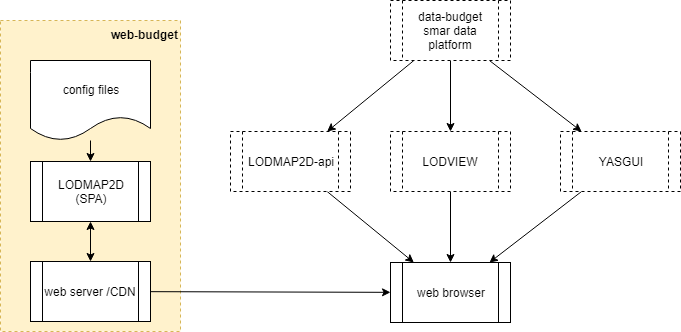
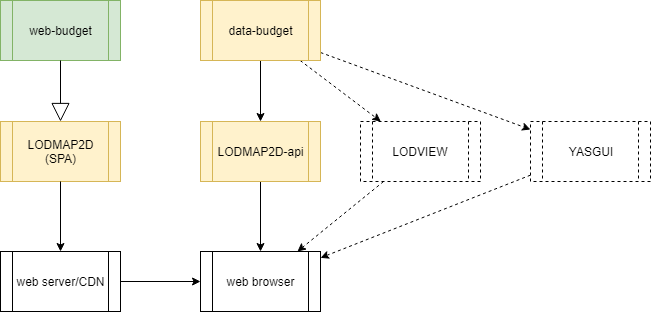
refined

diff --git a/README.md b/README.md
@@ -15,14 +15,16 @@ for citizens to participate in public affairs from the bottom up. The g0v commun
 Have a look to the reference implementation  https://budget.g0v.it/
 
 
+web-budget is an integration of three open source projects:
+
+- the [LODMAP2D](https://github.com/linkeddatacenter/LODMAP2D) project that realize a single web page application that manages the presentation layer (ie the bubbles) ;
+- the [LODMAP2D-api](https://github.com/linkeddatacenter/LODMAP2D-api) that provides a CORS enabled microservice to optimize and cache the data required by web-budget ;
+- the [data-budget](https://github.com/g0v-it/data-budget) project that provides a knowledge graph about Italian budge t data with a SPARQL service 
+
+![architecture](doc/architecture.png)
+
+
 ## Try with docker
-
-web-budget requires a stack of three components:
-
-- data are extracted and processed by the [data-budget](https://github.com/g0v-it/data-budget) platform according with the Semantic Web Standards
-- the presentation layer is realized by the [LODMAP2D](https://github.com/linkeddatacenter/LODMAP2D) single page web app according with SOLID specification;
-- the [LODMAP2D api](https://github.com/linkeddatacenter/LODMAP2D) micro service access the SPARQL service exposed by the data-budget platform
-providing a CORS compliant linked data interface to LODMAP2D. 
 
 The project is shipped with a [Docker](https://docker.com) setup that makes it easy 
 to get a containerized development environment up and running. 
@@ -41,9 +43,10 @@ This will start locally all needed services:
 
 | Name        | Description                                                   | Port 
 | ----------- | ------------------------------------------------------------- | ------- 
-| sdaas       | the data-budget management platform                           | (29321) optional    
+| sdaas       | the **data-budget** management platform                       | 29321 
 | api         | a microservice providing LODMAP2-api                          | 29322 
-| webapp      | the web server using LODMAP2D application                     | 20323
+| webapp      | the customized LODMAP2D application                           | 20323
+
 
 - try http://localhost:29323/
 
@@ -51,7 +54,7 @@ The first time you start the containers, Docker downloads and builds images for 
 this is done only once. Starting servers will then be lightning fast.
 
 *WARNING: some external links require to access to a public SPARQL interface. Such links are not working in a 
-local deploy*
+local deploy, if you need it, you have tho expose sdaas port in internet.*
 
 To shudown the platform type: 
 

diff --git a/CONTRIBUTING.md b/CONTRIBUTING.md
@@ -30,20 +30,19 @@ We kindly ask you to add following sentence to your pull request:
 
 
 Before submitting a pull request clean your code and test it
-
-```
-HERE INSTRUCTION TO EXECUTE TESTS
 ```
 
-## Architecture overview
+## LODMAP2D customization
 
-This application is a customization of the [LODMAP2D](https://github.com/linkeddatacenter/LODMAP2D) 
 
-![architecture](doc/architecture.png)
+Customized files are in the public directory:
 
-All customized files are in the public directory.
+- index.html is customized adding Copernicani.it SEO related parameters.
+- the Copernicani.it favicon and logos files can be customized as needed. 
+- The preview.png file is used as preview image in social network posts
+- IE_alert manages incompatible old browsers.
 
-Please consider to contribute to the development of the [LODMAP2D](https://github.com/linkeddatacenter/LODMAP2D) project.
+
 
 ## Publish image to dockerhub
 
